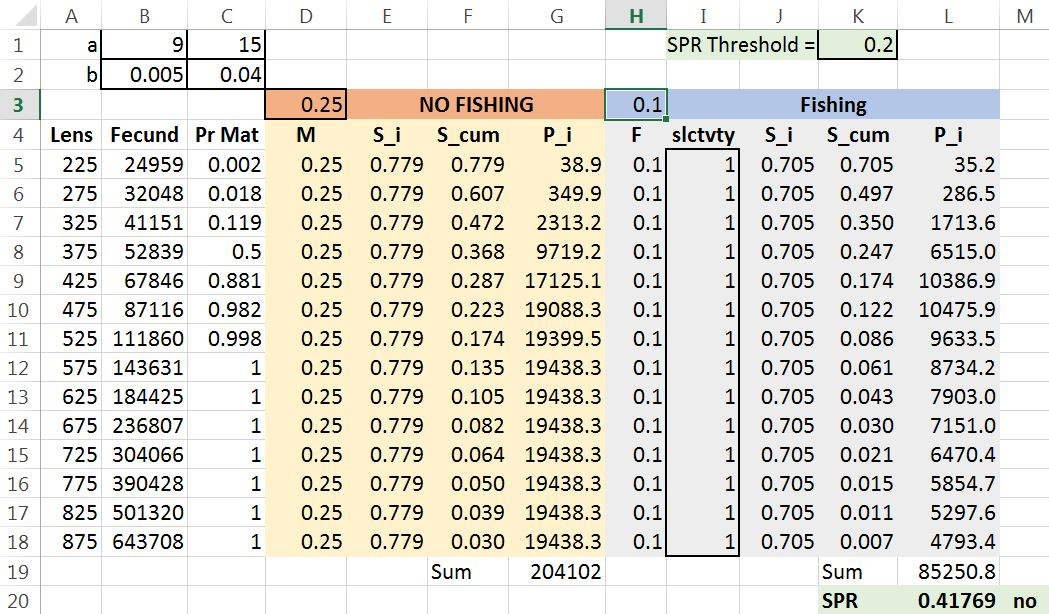
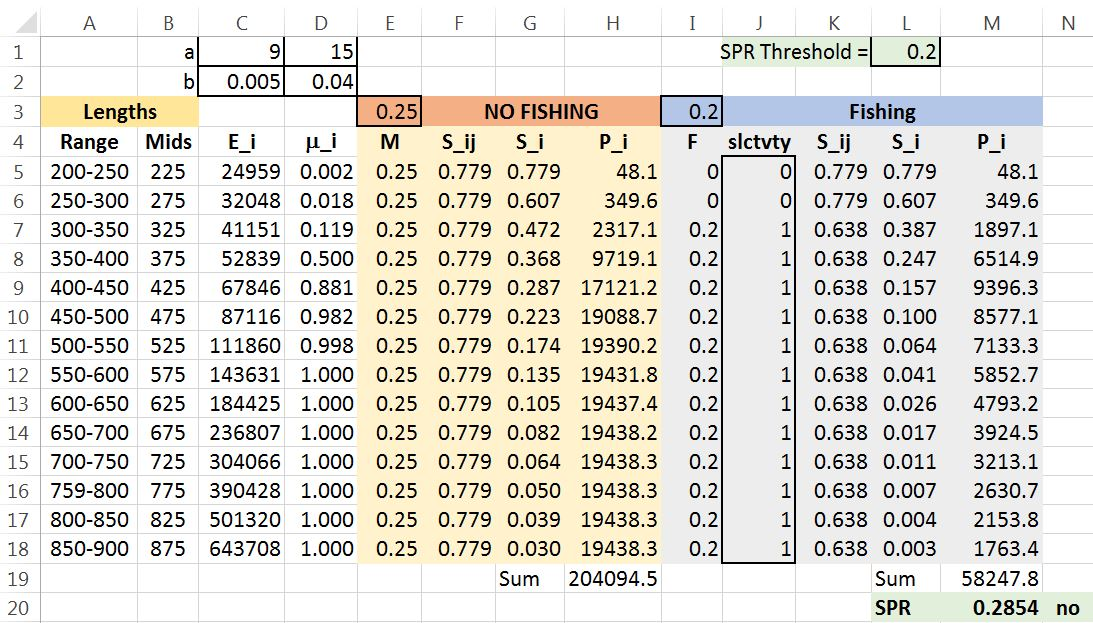
Updated SPR CE

diff --git a/modules/Recruitment/Cases/SPR.html b/modules/Recruitment/Cases/SPR.html
@@ -37,10 +37,10 @@ is vulnerable to harvest by commercial fishers for total lengths between 200 and
 has an instantaneous natural mortality of 0.25,
 </li>
 <li>
-has a maturity schedule that follows this equation – <span class="math inline">\(PR(mature)=\frac{1}{1+e^{15-0.04*TL}}\)</span>, and
+has a maturity schedule that follows this equation (<i>round to three decimals</i>) – <span class="math inline">\(PR(mature)=\frac{1}{1+e^{15-0.04*TL}}\)</span>, and
 </li>
 <li>
-has a fecundity-length relationshop that follows this equation – <span class="math inline">\(Fecundity=e^{9+0.005*TL}\)</span>.
+has a fecundity-length relationshop that follows this equation (<i>round to whole numbers</i>) – <span class="math inline">\(Fecundity=e^{9+0.005*TL}\)</span>.
 </ul>
 <p>Use this information to create a spreadsheet model that can be used to compute the SPR under various levels of instantaneous fishing mortality (<span class="math inline">\(F\)</span>) and gear selectivities. Your model should model lengths as the center of 50-mm length categories (e.g., use 225 mm to represent the 200-250 mm category) and be flexible enough for you to input different values of <span class="math inline">\(F\)</span> and selectivities to see the effect on SPR.</p>
 <p>Your spreadsheet might look like that below.</p>
@@ -49,10 +49,10 @@ has a fecundity-length relationshop that follows this equation – <span class="
 </div>
 <div id="scenarios" class="section level2">
 <h2>Scenarios</h2>
-<p>Use your spreadsheet model from above to answer the following questions. All answers should be to two decimal places for <span class="math inline">\(F\)</span> and whole (midpoint category) numbers for total lengths.</p>
+<p>Use your spreadsheet model from above to answer the following questions. All answers should be to two decimal places for <span class="math inline">\(F\)</span> and whole numbers for total lengths.</p>
 <ol>
 <li>
-Determine the value of <span class="math inline">\(F\)</span> that would meet the management goal for each situation below. Comment on how realistic it would be to reach that level of <span class="math inline">\(F\)</span>.
+Determine the value of <span class="math inline">\(F\)</span> that would meet the management goal (SPR&lt;0.20) for each situation below. Comment (with numerical and explanatory support) on how realistic it would be to reach that level of <span class="math inline">\(F\)</span>.
 </li>
 <ol type="a">
 <li>
@@ -62,14 +62,14 @@ The fishers use a gear that is fully selective for all lengths of fish.
 The fishers use a gear where selectivity increases linearly from 0 for 200 mm fish to 1 for 450 mm and all larger fish.
 </li>
 <li>
-The fishers get paid according to the biomass (not numbers) of carp collected and, thus, they do not want to waste their handling small (lower weight) fish. Suppose that they choose to use a gear that fully selects carp over 600 mm, does not select any fish less than 550 mm, and selects half of the 550-600 mm fish.
+The fishers get paid according to the biomass (not numbers) of carp collected and, thus, they do not want to waste time handling small (lower weight) fish. Suppose that they choose to use a gear that fully selects carp over 600 mm, does not select any fish less than 550 mm, and selects half of the 550-600 mm fish.
 </li>
 <li>
 Suppose that you negotiate with the fishers to use a gear that selects all fish greater than 450 mm and half of the 400-450 mm fish.
 </li>
 </ol>
 <li>
-Determine the minimum length of fish to capture for each situation below, assuming that the fishers will use a gear that has “knife-edge” selectivity.
+Determine the minimum length of fish to capture for each situation below, assuming that the fishers will use a gear that has <a href="http://www.fao.org/docrep/w5449e/w5449e08.htm#6.4.1%20knife%20edge%20selection">“knife-edge” selectivity</a>.
 </li>
 <ol type="a">
 <li>
@@ -83,7 +83,7 @@ The fishers can expend enough effort to reach <span class="math inline">\(F=1.0\
 </li>
 </ol>
 <li>
-If the fish were to mature somewhat later (e.g., change the slope for the maturity schedule from 0.04 to 0.025), then is it more or less difficult for the fishers to drive the population towards recruitment over-fishing. Provide direct evidence for your conclusion.
+If the fish were to mature somewhat later (e.g., change the slope for the maturity schedule from 0.04 to 0.025), then is it more or less difficult for the fishers to drive the population towards recruitment over-fishing. Explain (biologically/ecologically) your observation.
 </ol>
 <p><img src="AsianCarpJumping.jpg" alt="AsianCarp" /></p>
 <hr />
